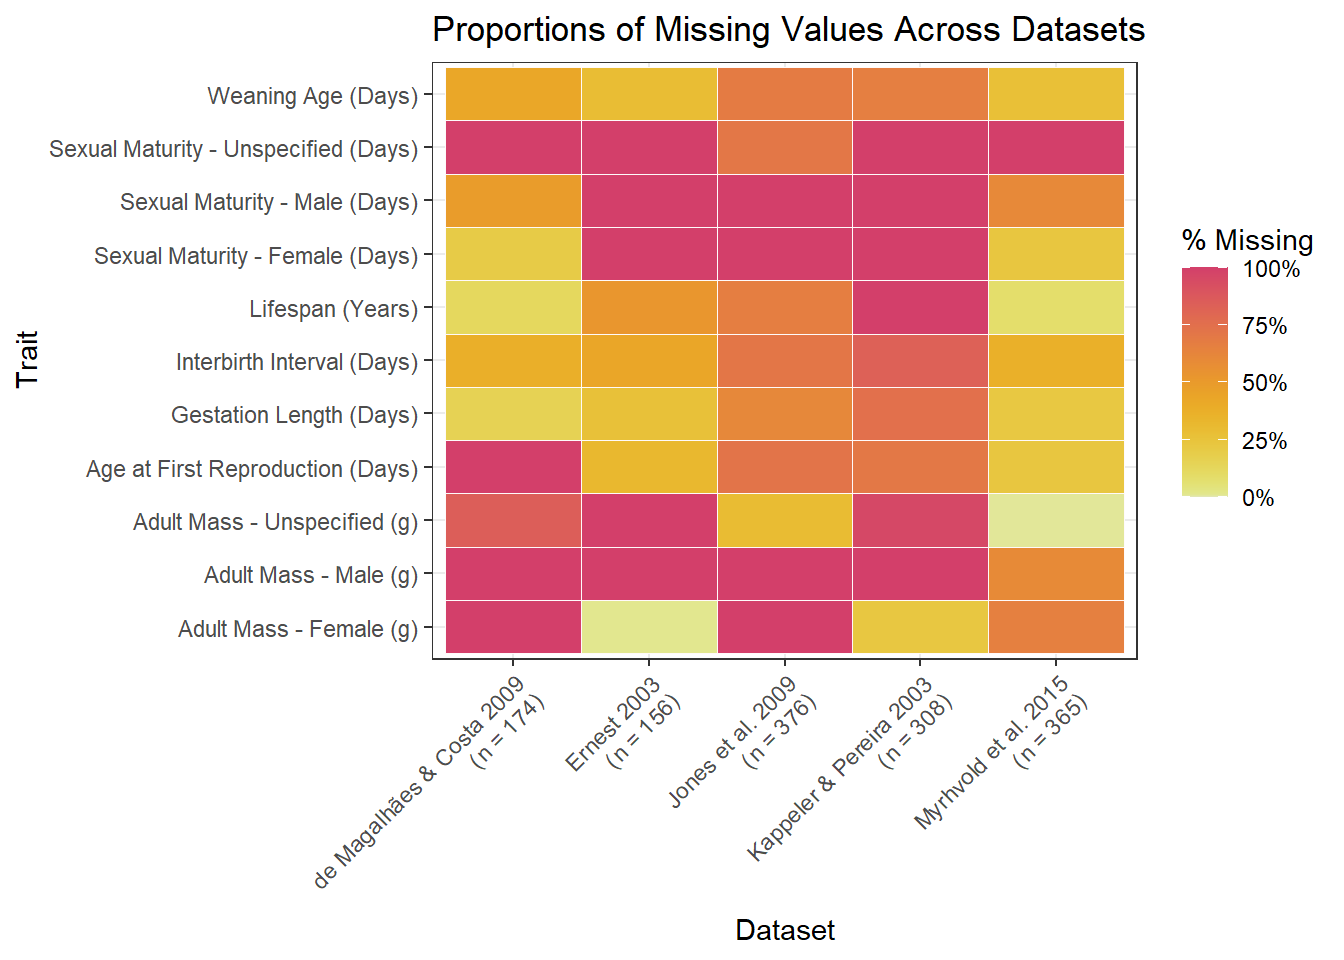
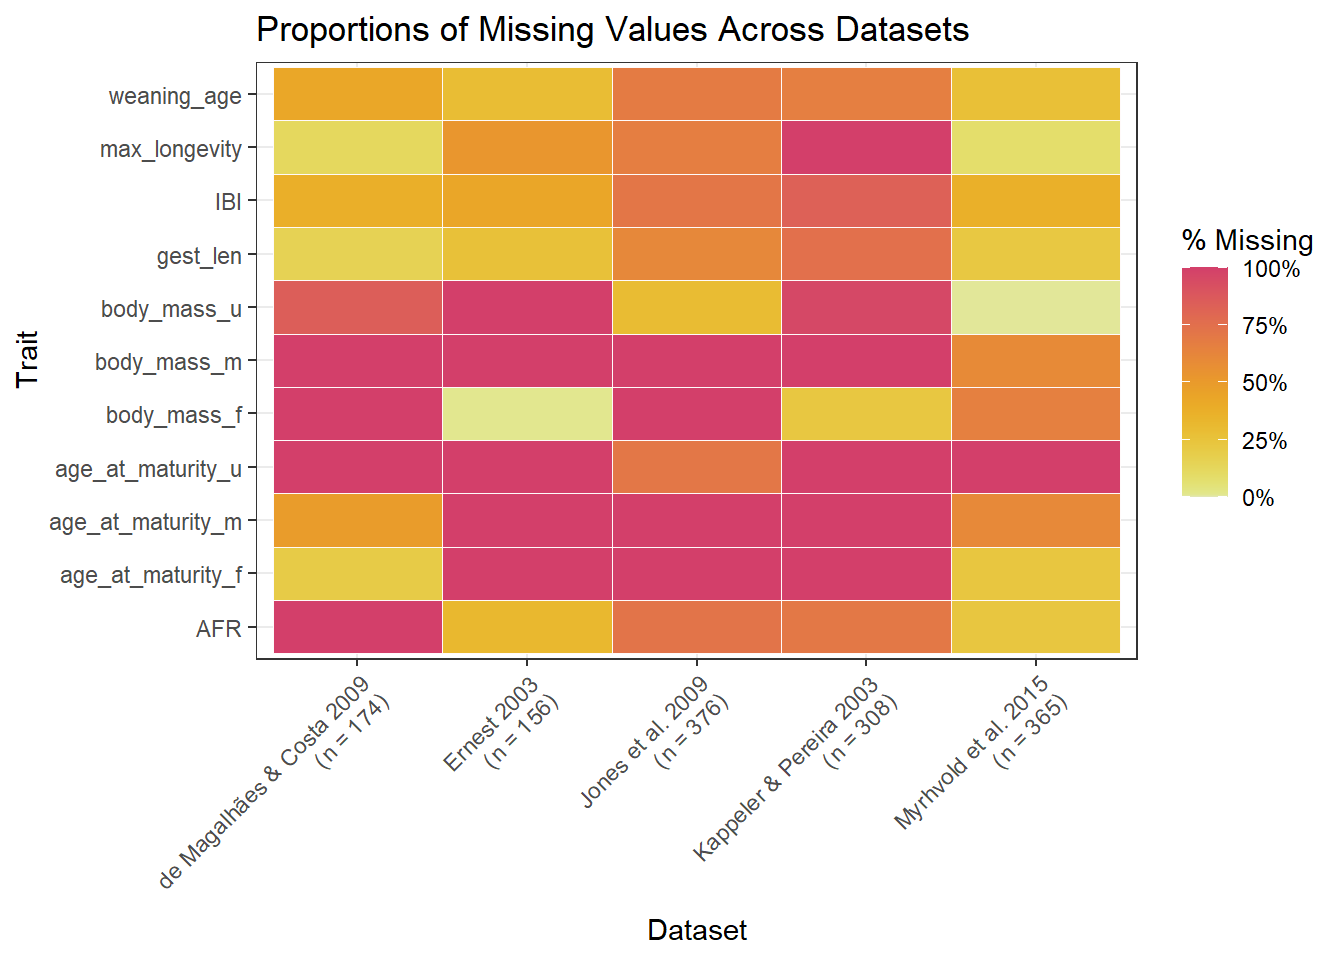
started implementing chunk for completeness bar chart without sexed vars

diff --git a/Database-Analysis.html b/Database-Analysis.html
@@ -383,7 +383,7 @@ window.Quarto = {
 <span id="cb4-19"><a href="#cb4-19" aria-hidden="true" tabindex="-1"></a>  <span class="fu">summarize</span>(<span class="at">prop_missing =</span> <span class="fu">mean</span>(<span class="fu">is.na</span>(value)), <span class="at">.groups =</span> <span class="st">"drop"</span>)</span>
 <span id="cb4-20"><a href="#cb4-20" aria-hidden="true" tabindex="-1"></a></span>
 <span id="cb4-21"><a href="#cb4-21" aria-hidden="true" tabindex="-1"></a><span class="do">## renames traits to look pretty on graph</span></span>
-<span id="cb4-22"><a href="#cb4-22" aria-hidden="true" tabindex="-1"></a>missingness <span class="ot">&lt;-</span> missingness <span class="sc">%&gt;%</span></span>
+<span id="cb4-22"><a href="#cb4-22" aria-hidden="true" tabindex="-1"></a>missingness2 <span class="ot">&lt;-</span> missingness <span class="sc">%&gt;%</span></span>
 <span id="cb4-23"><a href="#cb4-23" aria-hidden="true" tabindex="-1"></a>  <span class="fu">mutate</span>(<span class="at">trait =</span> <span class="fu">case_when</span>(</span>
 <span id="cb4-24"><a href="#cb4-24" aria-hidden="true" tabindex="-1"></a>    trait <span class="sc">==</span> <span class="st">"max_longevity"</span> <span class="sc">~</span> <span class="st">"Lifespan (Years)"</span>,</span>
 <span id="cb4-25"><a href="#cb4-25" aria-hidden="true" tabindex="-1"></a>    trait <span class="sc">==</span> <span class="st">"IBI"</span> <span class="sc">~</span> <span class="st">"Interbirth Interval (Days)"</span>,</span>
@@ -414,7 +414,7 @@ window.Quarto = {
 <div class="sourceCode cell-code" id="cb5"><pre class="sourceCode r code-with-copy"><code class="sourceCode r"><span id="cb5-1"><a href="#cb5-1" aria-hidden="true" tabindex="-1"></a><span class="do">## makes a new df using prop_missing values from </span></span>
 <span id="cb5-2"><a href="#cb5-2" aria-hidden="true" tabindex="-1"></a><span class="do">## missingness df and averages them by source, then stores</span></span>
 <span id="cb5-3"><a href="#cb5-3" aria-hidden="true" tabindex="-1"></a><span class="do">## in new df mean_missing</span></span>
-<span id="cb5-4"><a href="#cb5-4" aria-hidden="true" tabindex="-1"></a>mean_missing <span class="ot">&lt;-</span> missingness <span class="sc">%&gt;%</span> </span>
+<span id="cb5-4"><a href="#cb5-4" aria-hidden="true" tabindex="-1"></a>mean_missing <span class="ot">&lt;-</span> missingness2 <span class="sc">%&gt;%</span> </span>
 <span id="cb5-5"><a href="#cb5-5" aria-hidden="true" tabindex="-1"></a>  <span class="fu">group_by</span>(source) <span class="sc">%&gt;%</span> </span>
 <span id="cb5-6"><a href="#cb5-6" aria-hidden="true" tabindex="-1"></a>  <span class="fu">summarise</span>(</span>
 <span id="cb5-7"><a href="#cb5-7" aria-hidden="true" tabindex="-1"></a>    <span class="at">mean_missingness =</span> <span class="fu">mean</span>(prop_missing)</span>
@@ -423,7 +423,27 @@ window.Quarto = {
 <span id="cb5-10"><a href="#cb5-10" aria-hidden="true" tabindex="-1"></a><span class="do">## takes the inverse proportion of the mean missingness</span></span>
 <span id="cb5-11"><a href="#cb5-11" aria-hidden="true" tabindex="-1"></a><span class="do">## for each database to give mean completeness</span></span>
 <span id="cb5-12"><a href="#cb5-12" aria-hidden="true" tabindex="-1"></a>mean_complete <span class="ot">&lt;-</span> mean_missing <span class="sc">%&gt;%</span> </span>
-<span id="cb5-13"><a href="#cb5-13" aria-hidden="true" tabindex="-1"></a>  <span class="fu">mutate</span>(<span class="at">mean_completeness =</span> <span class="dv">1</span> <span class="sc">-</span> mean_missingness)</span></code><button title="Copy to Clipboard" class="code-copy-button"><i class="bi"></i></button></pre></div>
+<span id="cb5-13"><a href="#cb5-13" aria-hidden="true" tabindex="-1"></a>  <span class="fu">mutate</span>(<span class="at">mean_completeness =</span> <span class="dv">1</span> <span class="sc">-</span> mean_missingness)</span>
+<span id="cb5-14"><a href="#cb5-14" aria-hidden="true" tabindex="-1"></a></span>
+<span id="cb5-15"><a href="#cb5-15" aria-hidden="true" tabindex="-1"></a><span class="do">## removing sexed variables</span></span>
+<span id="cb5-16"><a href="#cb5-16" aria-hidden="true" tabindex="-1"></a>mean_missing_no_sex <span class="ot">&lt;-</span> missingness <span class="sc">%&gt;%</span> </span>
+<span id="cb5-17"><a href="#cb5-17" aria-hidden="true" tabindex="-1"></a>  dplyr<span class="sc">::</span><span class="fu">filter</span>(trait <span class="sc">==</span> (<span class="fu">c</span>(<span class="st">"body_mass_u"</span>, <span class="st">"body_mass_f"</span>, <span class="st">"body_mass_m"</span>, <span class="st">"age_at_maturity_u"</span>, <span class="st">"age_at_maturity_f"</span>, <span class="st">"age_at_maturity_m"</span>))) <span class="sc">%&gt;%</span> </span>
+<span id="cb5-18"><a href="#cb5-18" aria-hidden="true" tabindex="-1"></a>  <span class="fu">group_by</span>(source) <span class="sc">%&gt;%</span> </span>
+<span id="cb5-19"><a href="#cb5-19" aria-hidden="true" tabindex="-1"></a>  <span class="fu">summarise</span>(</span>
+<span id="cb5-20"><a href="#cb5-20" aria-hidden="true" tabindex="-1"></a>    <span class="at">mean_missing =</span> <span class="fu">mean</span>(prop_missing)</span>
+<span id="cb5-21"><a href="#cb5-21" aria-hidden="true" tabindex="-1"></a>  )</span></code><button title="Copy to Clipboard" class="code-copy-button"><i class="bi"></i></button></pre></div>
+</details>
+<div class="cell-output cell-output-stderr">
+<pre><code>Warning: There was 1 warning in `dplyr::filter()`.
+ℹ In argument: `==...`.
+Caused by warning in `trait == (c("body_mass_u", "body_mass_f", "body_mass_m", "age_at_maturity_u",
+    "age_at_maturity_f", "age_at_maturity_m"))`:
+! longer object length is not a multiple of shorter object length</code></pre>
+</div>
+<details class="code-fold">
+<summary>Code</summary>
+<div class="sourceCode cell-code" id="cb7"><pre class="sourceCode r code-with-copy"><code class="sourceCode r"><span id="cb7-1"><a href="#cb7-1" aria-hidden="true" tabindex="-1"></a>mean_complete_no_sex <span class="ot">&lt;-</span> mean_missing_no_sex <span class="sc">%&gt;%</span> </span>
+<span id="cb7-2"><a href="#cb7-2" aria-hidden="true" tabindex="-1"></a>  <span class="fu">mutate</span>(<span class="at">mean_completeness =</span> <span class="dv">1</span> <span class="sc">-</span> mean_missing)</span></code><button title="Copy to Clipboard" class="code-copy-button"><i class="bi"></i></button></pre></div>
 </details>
 </div>
 </section>
@@ -432,22 +452,22 @@ window.Quarto = {
 <div class="cell">
 <details class="code-fold">
 <summary>Code</summary>
-<div class="sourceCode cell-code" id="cb6"><pre class="sourceCode r code-with-copy"><code class="sourceCode r"><span id="cb6-1"><a href="#cb6-1" aria-hidden="true" tabindex="-1"></a><span class="fu">ggplot</span>(missingness, <span class="fu">aes</span>(<span class="at">x =</span> source, <span class="at">y =</span> trait, <span class="at">fill =</span> prop_missing)) <span class="sc">+</span></span>
-<span id="cb6-2"><a href="#cb6-2" aria-hidden="true" tabindex="-1"></a>  <span class="fu">geom_tile</span>(<span class="at">color =</span> <span class="st">"snow"</span>) <span class="sc">+</span></span>
-<span id="cb6-3"><a href="#cb6-3" aria-hidden="true" tabindex="-1"></a>  <span class="fu">scale_fill_gradientn</span>(</span>
-<span id="cb6-4"><a href="#cb6-4" aria-hidden="true" tabindex="-1"></a>    <span class="at">colors =</span> <span class="fu">rev</span>(colorspace<span class="sc">::</span><span class="fu">heat_hcl</span>(<span class="dv">100</span>)),</span>
-<span id="cb6-5"><a href="#cb6-5" aria-hidden="true" tabindex="-1"></a>    <span class="at">limits =</span> <span class="fu">c</span>(<span class="dv">0</span>, <span class="dv">1</span>),</span>
-<span id="cb6-6"><a href="#cb6-6" aria-hidden="true" tabindex="-1"></a>    <span class="at">breaks =</span> <span class="fu">seq</span>(<span class="dv">0</span>, <span class="dv">1</span>, <span class="at">by =</span> <span class="fl">0.25</span>),</span>
-<span id="cb6-7"><a href="#cb6-7" aria-hidden="true" tabindex="-1"></a>    <span class="at">labels =</span> scales<span class="sc">::</span><span class="fu">label_percent</span>(<span class="at">accuracy =</span> <span class="dv">1</span>),</span>
-<span id="cb6-8"><a href="#cb6-8" aria-hidden="true" tabindex="-1"></a>    <span class="at">name =</span> <span class="st">"% Missing"</span></span>
-<span id="cb6-9"><a href="#cb6-9" aria-hidden="true" tabindex="-1"></a>    ) <span class="sc">+</span></span>
-<span id="cb6-10"><a href="#cb6-10" aria-hidden="true" tabindex="-1"></a>  <span class="fu">scale_x_discrete</span>(<span class="at">labels =</span> dataset_labels) <span class="sc">+</span></span>
-<span id="cb6-11"><a href="#cb6-11" aria-hidden="true" tabindex="-1"></a>  <span class="fu">theme_bw</span>() <span class="sc">+</span></span>
-<span id="cb6-12"><a href="#cb6-12" aria-hidden="true" tabindex="-1"></a>  <span class="fu">theme</span>(<span class="at">axis.text.x =</span> <span class="fu">element_text</span>(<span class="at">angle =</span> <span class="dv">45</span>, <span class="at">hjust =</span> <span class="dv">1</span>)) <span class="sc">+</span></span>
-<span id="cb6-13"><a href="#cb6-13" aria-hidden="true" tabindex="-1"></a>  <span class="fu">labs</span>(</span>
-<span id="cb6-14"><a href="#cb6-14" aria-hidden="true" tabindex="-1"></a>    <span class="at">title =</span> <span class="st">"Proportions of Missing Values Across Datasets"</span>,</span>
-<span id="cb6-15"><a href="#cb6-15" aria-hidden="true" tabindex="-1"></a>    <span class="at">x =</span> <span class="st">"Dataset"</span>, </span>
-<span id="cb6-16"><a href="#cb6-16" aria-hidden="true" tabindex="-1"></a>    <span class="at">y =</span> <span class="st">"Trait"</span>)</span></code><button title="Copy to Clipboard" class="code-copy-button"><i class="bi"></i></button></pre></div>
+<div class="sourceCode cell-code" id="cb8"><pre class="sourceCode r code-with-copy"><code class="sourceCode r"><span id="cb8-1"><a href="#cb8-1" aria-hidden="true" tabindex="-1"></a><span class="fu">ggplot</span>(missingness, <span class="fu">aes</span>(<span class="at">x =</span> source, <span class="at">y =</span> trait, <span class="at">fill =</span> prop_missing)) <span class="sc">+</span></span>
+<span id="cb8-2"><a href="#cb8-2" aria-hidden="true" tabindex="-1"></a>  <span class="fu">geom_tile</span>(<span class="at">color =</span> <span class="st">"snow"</span>) <span class="sc">+</span></span>
+<span id="cb8-3"><a href="#cb8-3" aria-hidden="true" tabindex="-1"></a>  <span class="fu">scale_fill_gradientn</span>(</span>
+<span id="cb8-4"><a href="#cb8-4" aria-hidden="true" tabindex="-1"></a>    <span class="at">colors =</span> <span class="fu">rev</span>(colorspace<span class="sc">::</span><span class="fu">heat_hcl</span>(<span class="dv">100</span>)),</span>
+<span id="cb8-5"><a href="#cb8-5" aria-hidden="true" tabindex="-1"></a>    <span class="at">limits =</span> <span class="fu">c</span>(<span class="dv">0</span>, <span class="dv">1</span>),</span>
+<span id="cb8-6"><a href="#cb8-6" aria-hidden="true" tabindex="-1"></a>    <span class="at">breaks =</span> <span class="fu">seq</span>(<span class="dv">0</span>, <span class="dv">1</span>, <span class="at">by =</span> <span class="fl">0.25</span>),</span>
+<span id="cb8-7"><a href="#cb8-7" aria-hidden="true" tabindex="-1"></a>    <span class="at">labels =</span> scales<span class="sc">::</span><span class="fu">label_percent</span>(<span class="at">accuracy =</span> <span class="dv">1</span>),</span>
+<span id="cb8-8"><a href="#cb8-8" aria-hidden="true" tabindex="-1"></a>    <span class="at">name =</span> <span class="st">"% Missing"</span></span>
+<span id="cb8-9"><a href="#cb8-9" aria-hidden="true" tabindex="-1"></a>    ) <span class="sc">+</span></span>
+<span id="cb8-10"><a href="#cb8-10" aria-hidden="true" tabindex="-1"></a>  <span class="fu">scale_x_discrete</span>(<span class="at">labels =</span> dataset_labels) <span class="sc">+</span></span>
+<span id="cb8-11"><a href="#cb8-11" aria-hidden="true" tabindex="-1"></a>  <span class="fu">theme_bw</span>() <span class="sc">+</span></span>
+<span id="cb8-12"><a href="#cb8-12" aria-hidden="true" tabindex="-1"></a>  <span class="fu">theme</span>(<span class="at">axis.text.x =</span> <span class="fu">element_text</span>(<span class="at">angle =</span> <span class="dv">45</span>, <span class="at">hjust =</span> <span class="dv">1</span>)) <span class="sc">+</span></span>
+<span id="cb8-13"><a href="#cb8-13" aria-hidden="true" tabindex="-1"></a>  <span class="fu">labs</span>(</span>
+<span id="cb8-14"><a href="#cb8-14" aria-hidden="true" tabindex="-1"></a>    <span class="at">title =</span> <span class="st">"Proportions of Missing Values Across Datasets"</span>,</span>
+<span id="cb8-15"><a href="#cb8-15" aria-hidden="true" tabindex="-1"></a>    <span class="at">x =</span> <span class="st">"Dataset"</span>, </span>
+<span id="cb8-16"><a href="#cb8-16" aria-hidden="true" tabindex="-1"></a>    <span class="at">y =</span> <span class="st">"Trait"</span>)</span></code><button title="Copy to Clipboard" class="code-copy-button"><i class="bi"></i></button></pre></div>
 </details>
 <div class="cell-output-display">
 <div>
@@ -465,20 +485,37 @@ window.Quarto = {
 <li><p>all datasets have at least one unreported variable of our key variable selection</p></li>
 </ul>
 <div class="cell">
-<div class="sourceCode cell-code" id="cb7"><pre class="sourceCode r code-with-copy"><code class="sourceCode r"><span id="cb7-1"><a href="#cb7-1" aria-hidden="true" tabindex="-1"></a><span class="fu">ggplot</span>(mean_complete,</span>
-<span id="cb7-2"><a href="#cb7-2" aria-hidden="true" tabindex="-1"></a>       <span class="fu">aes</span>(<span class="at">x =</span> source, <span class="at">y =</span> mean_completeness, <span class="at">fill =</span> source)) <span class="sc">+</span></span>
-<span id="cb7-3"><a href="#cb7-3" aria-hidden="true" tabindex="-1"></a>  <span class="fu">geom_col</span>(<span class="at">show.legend =</span> <span class="cn">FALSE</span>) <span class="sc">+</span></span>
-<span id="cb7-4"><a href="#cb7-4" aria-hidden="true" tabindex="-1"></a>  <span class="fu">labs</span>(</span>
-<span id="cb7-5"><a href="#cb7-5" aria-hidden="true" tabindex="-1"></a>    <span class="at">x =</span> <span class="st">"Dataset"</span>,</span>
-<span id="cb7-6"><a href="#cb7-6" aria-hidden="true" tabindex="-1"></a>    <span class="at">y =</span> <span class="st">"Mean Completeness"</span></span>
-<span id="cb7-7"><a href="#cb7-7" aria-hidden="true" tabindex="-1"></a>  ) <span class="sc">+</span></span>
-<span id="cb7-8"><a href="#cb7-8" aria-hidden="true" tabindex="-1"></a>  <span class="fu">ylim</span>(<span class="dv">0</span>, <span class="dv">1</span>) <span class="sc">+</span> </span>
-<span id="cb7-9"><a href="#cb7-9" aria-hidden="true" tabindex="-1"></a>  <span class="fu">theme_bw</span>() <span class="sc">+</span></span>
-<span id="cb7-10"><a href="#cb7-10" aria-hidden="true" tabindex="-1"></a>  <span class="fu">theme</span>(<span class="at">axis.text.x =</span> <span class="fu">element_text</span>(<span class="at">angle =</span> <span class="dv">45</span>, <span class="at">hjust =</span> <span class="dv">1</span>))</span></code><button title="Copy to Clipboard" class="code-copy-button"><i class="bi"></i></button></pre></div>
+<div class="sourceCode cell-code" id="cb9"><pre class="sourceCode r code-with-copy"><code class="sourceCode r"><span id="cb9-1"><a href="#cb9-1" aria-hidden="true" tabindex="-1"></a><span class="fu">ggplot</span>(mean_complete,</span>
+<span id="cb9-2"><a href="#cb9-2" aria-hidden="true" tabindex="-1"></a>       <span class="fu">aes</span>(<span class="at">x =</span> source, <span class="at">y =</span> mean_completeness, <span class="at">fill =</span> source)) <span class="sc">+</span></span>
+<span id="cb9-3"><a href="#cb9-3" aria-hidden="true" tabindex="-1"></a>  <span class="fu">geom_col</span>(<span class="at">show.legend =</span> <span class="cn">FALSE</span>) <span class="sc">+</span></span>
+<span id="cb9-4"><a href="#cb9-4" aria-hidden="true" tabindex="-1"></a>  <span class="fu">labs</span>(</span>
+<span id="cb9-5"><a href="#cb9-5" aria-hidden="true" tabindex="-1"></a>    <span class="at">x =</span> <span class="st">"Dataset"</span>,</span>
+<span id="cb9-6"><a href="#cb9-6" aria-hidden="true" tabindex="-1"></a>    <span class="at">y =</span> <span class="st">"Mean Completeness"</span></span>
+<span id="cb9-7"><a href="#cb9-7" aria-hidden="true" tabindex="-1"></a>  ) <span class="sc">+</span></span>
+<span id="cb9-8"><a href="#cb9-8" aria-hidden="true" tabindex="-1"></a>  <span class="fu">ylim</span>(<span class="dv">0</span>, <span class="dv">1</span>) <span class="sc">+</span> </span>
+<span id="cb9-9"><a href="#cb9-9" aria-hidden="true" tabindex="-1"></a>  <span class="fu">theme_bw</span>() <span class="sc">+</span></span>
+<span id="cb9-10"><a href="#cb9-10" aria-hidden="true" tabindex="-1"></a>  <span class="fu">theme</span>(<span class="at">axis.text.x =</span> <span class="fu">element_text</span>(<span class="at">angle =</span> <span class="dv">45</span>, <span class="at">hjust =</span> <span class="dv">1</span>))</span></code><button title="Copy to Clipboard" class="code-copy-button"><i class="bi"></i></button></pre></div>
 <div class="cell-output-display">
 <div>
 <figure class="figure">
 <p><img src="Database-Analysis_files/figure-html/unnamed-chunk-7-1.png" class="img-fluid figure-img" width="672"></p>
+</figure>
+</div>
+</div>
+<div class="sourceCode cell-code" id="cb10"><pre class="sourceCode r code-with-copy"><code class="sourceCode r"><span id="cb10-1"><a href="#cb10-1" aria-hidden="true" tabindex="-1"></a><span class="fu">ggplot</span>(mean_complete_no_sex,</span>
+<span id="cb10-2"><a href="#cb10-2" aria-hidden="true" tabindex="-1"></a>       <span class="fu">aes</span>(<span class="at">x =</span> source, <span class="at">y =</span> mean_completeness, <span class="at">fill =</span> source)) <span class="sc">+</span></span>
+<span id="cb10-3"><a href="#cb10-3" aria-hidden="true" tabindex="-1"></a>  <span class="fu">geom_col</span>(<span class="at">show.legend =</span> <span class="cn">FALSE</span>) <span class="sc">+</span></span>
+<span id="cb10-4"><a href="#cb10-4" aria-hidden="true" tabindex="-1"></a>  <span class="fu">labs</span>(</span>
+<span id="cb10-5"><a href="#cb10-5" aria-hidden="true" tabindex="-1"></a>    <span class="at">x =</span> <span class="st">"Dataset"</span>,</span>
+<span id="cb10-6"><a href="#cb10-6" aria-hidden="true" tabindex="-1"></a>    <span class="at">y =</span> <span class="st">"Mean Completeness"</span></span>
+<span id="cb10-7"><a href="#cb10-7" aria-hidden="true" tabindex="-1"></a>  ) <span class="sc">+</span></span>
+<span id="cb10-8"><a href="#cb10-8" aria-hidden="true" tabindex="-1"></a>  <span class="fu">ylim</span>(<span class="dv">0</span>, <span class="dv">1</span>) <span class="sc">+</span> </span>
+<span id="cb10-9"><a href="#cb10-9" aria-hidden="true" tabindex="-1"></a>  <span class="fu">theme_bw</span>() <span class="sc">+</span></span>
+<span id="cb10-10"><a href="#cb10-10" aria-hidden="true" tabindex="-1"></a>  <span class="fu">theme</span>(<span class="at">axis.text.x =</span> <span class="fu">element_text</span>(<span class="at">angle =</span> <span class="dv">45</span>, <span class="at">hjust =</span> <span class="dv">1</span>))</span></code><button title="Copy to Clipboard" class="code-copy-button"><i class="bi"></i></button></pre></div>
+<div class="cell-output-display">
+<div>
+<figure class="figure">
+<p><img src="Database-Analysis_files/figure-html/unnamed-chunk-7-2.png" class="img-fluid figure-img" width="672"></p>
 </figure>
 </div>
 </div>
